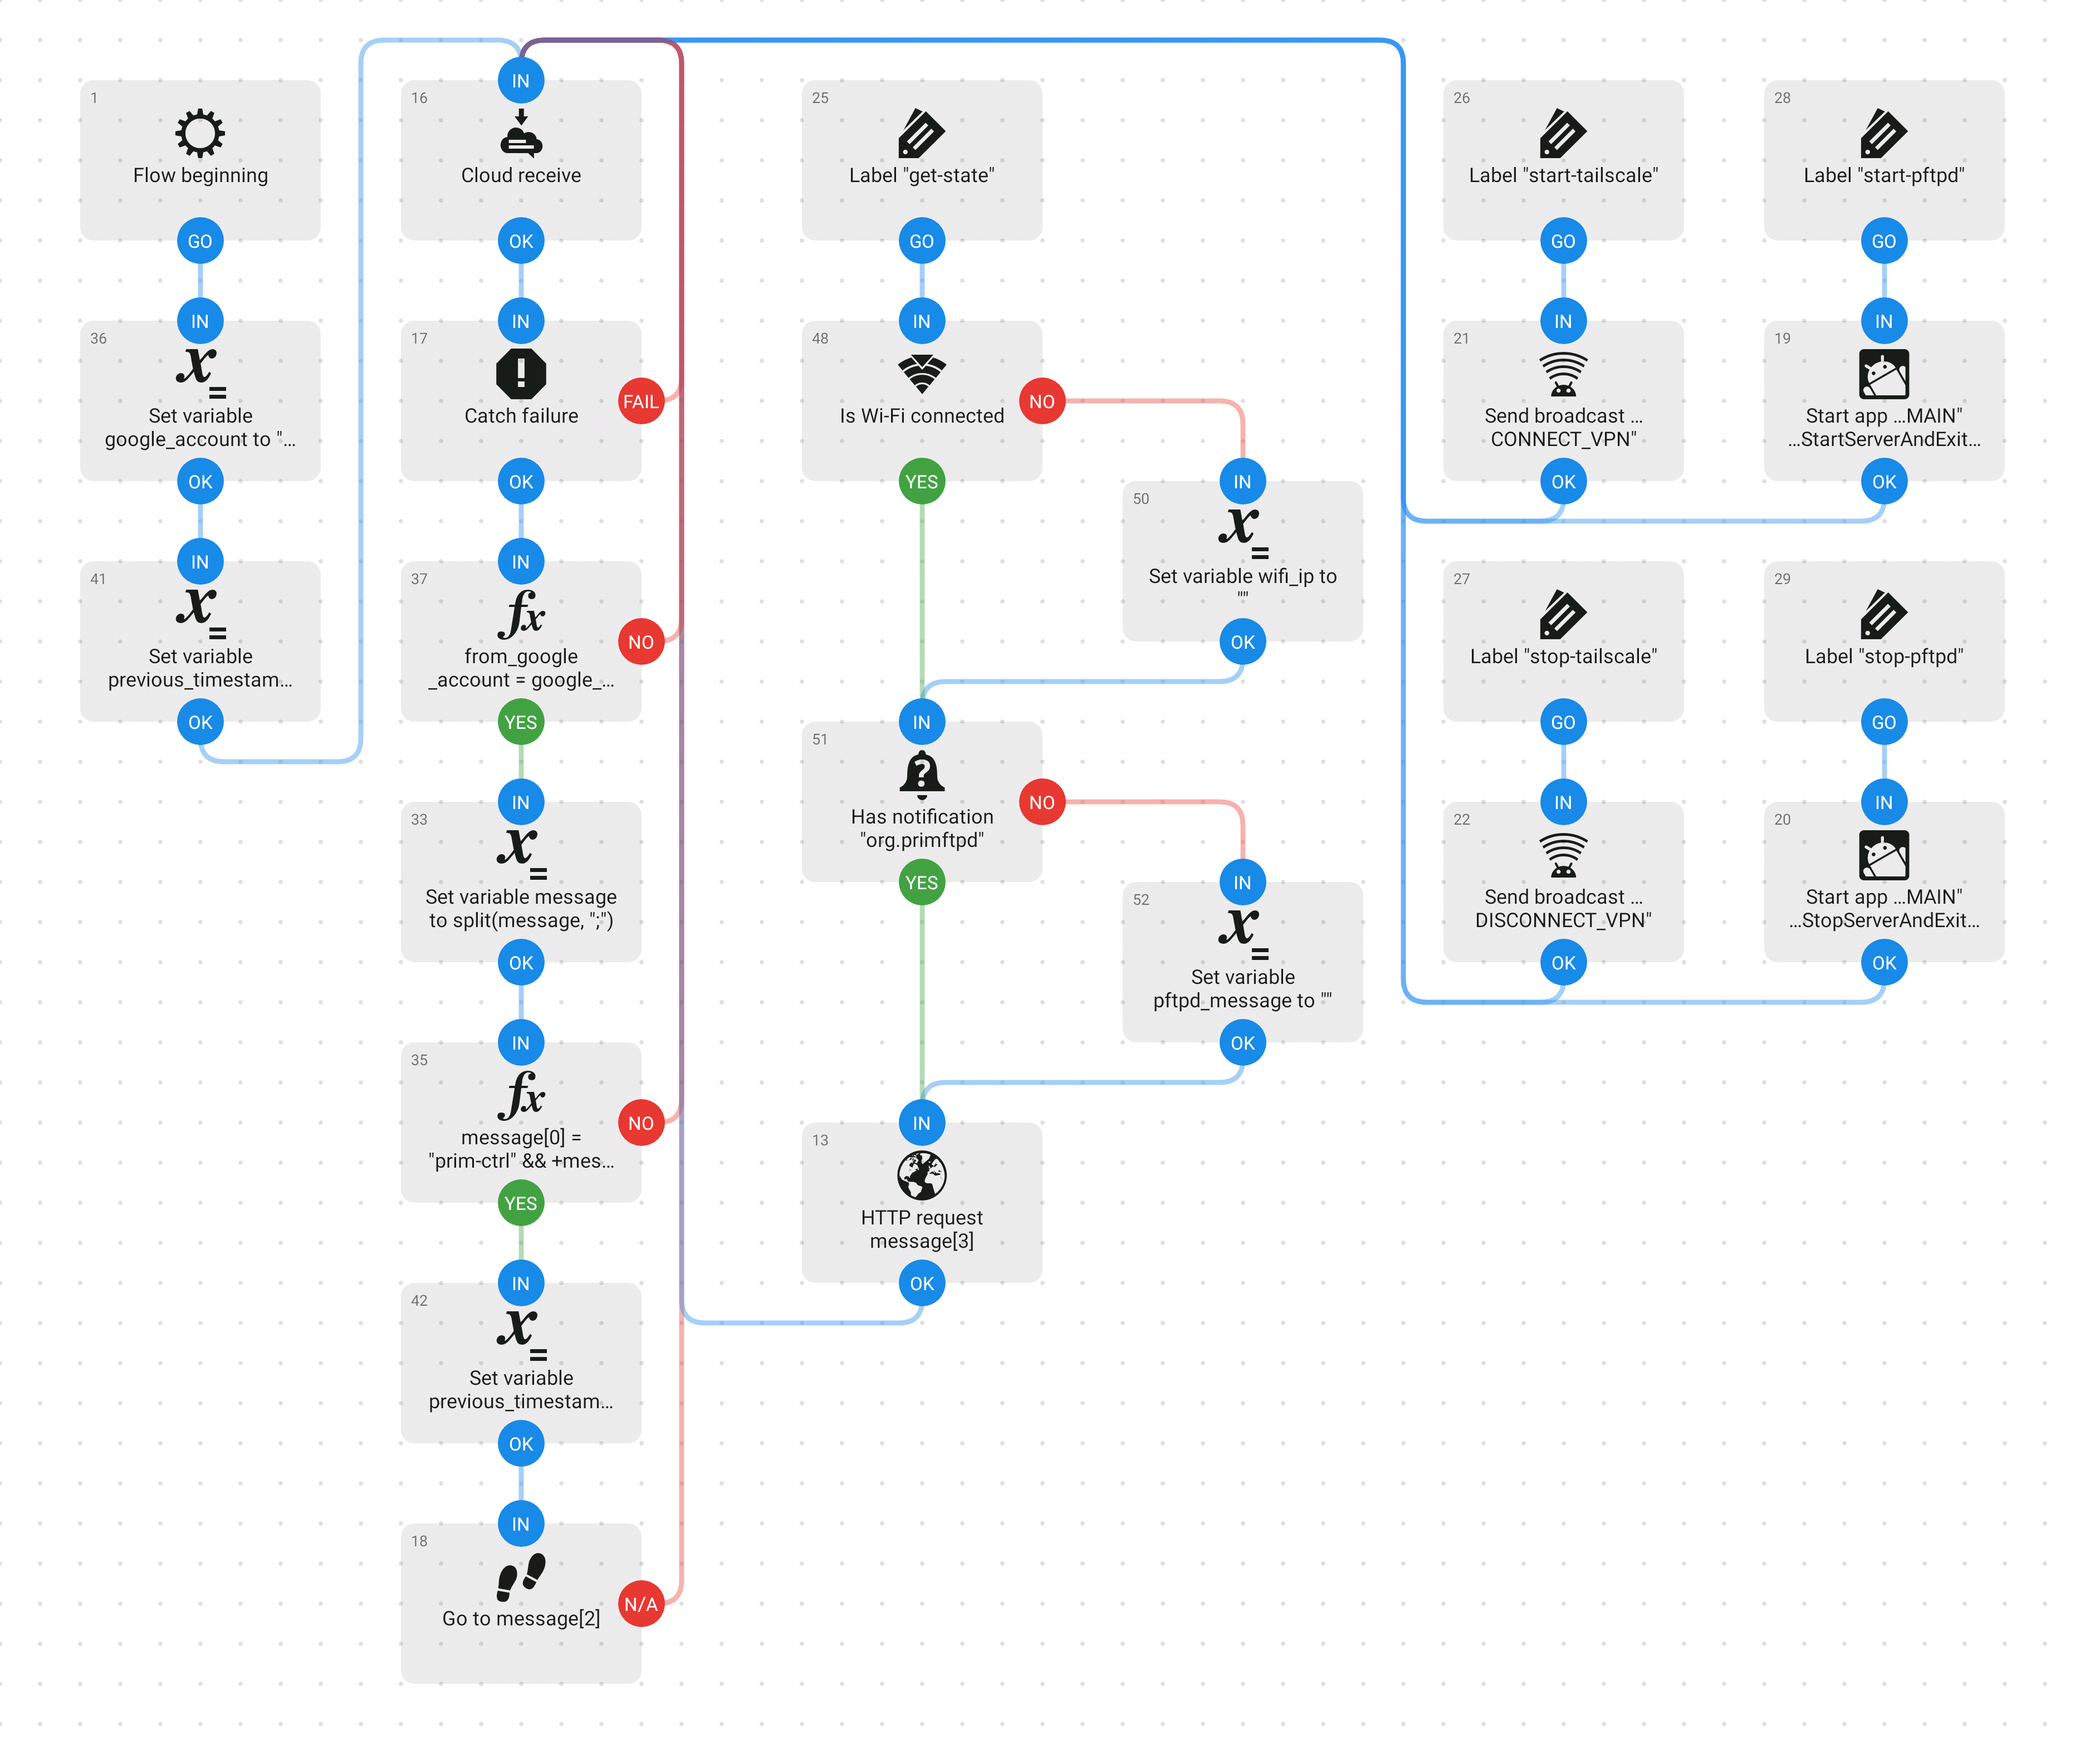
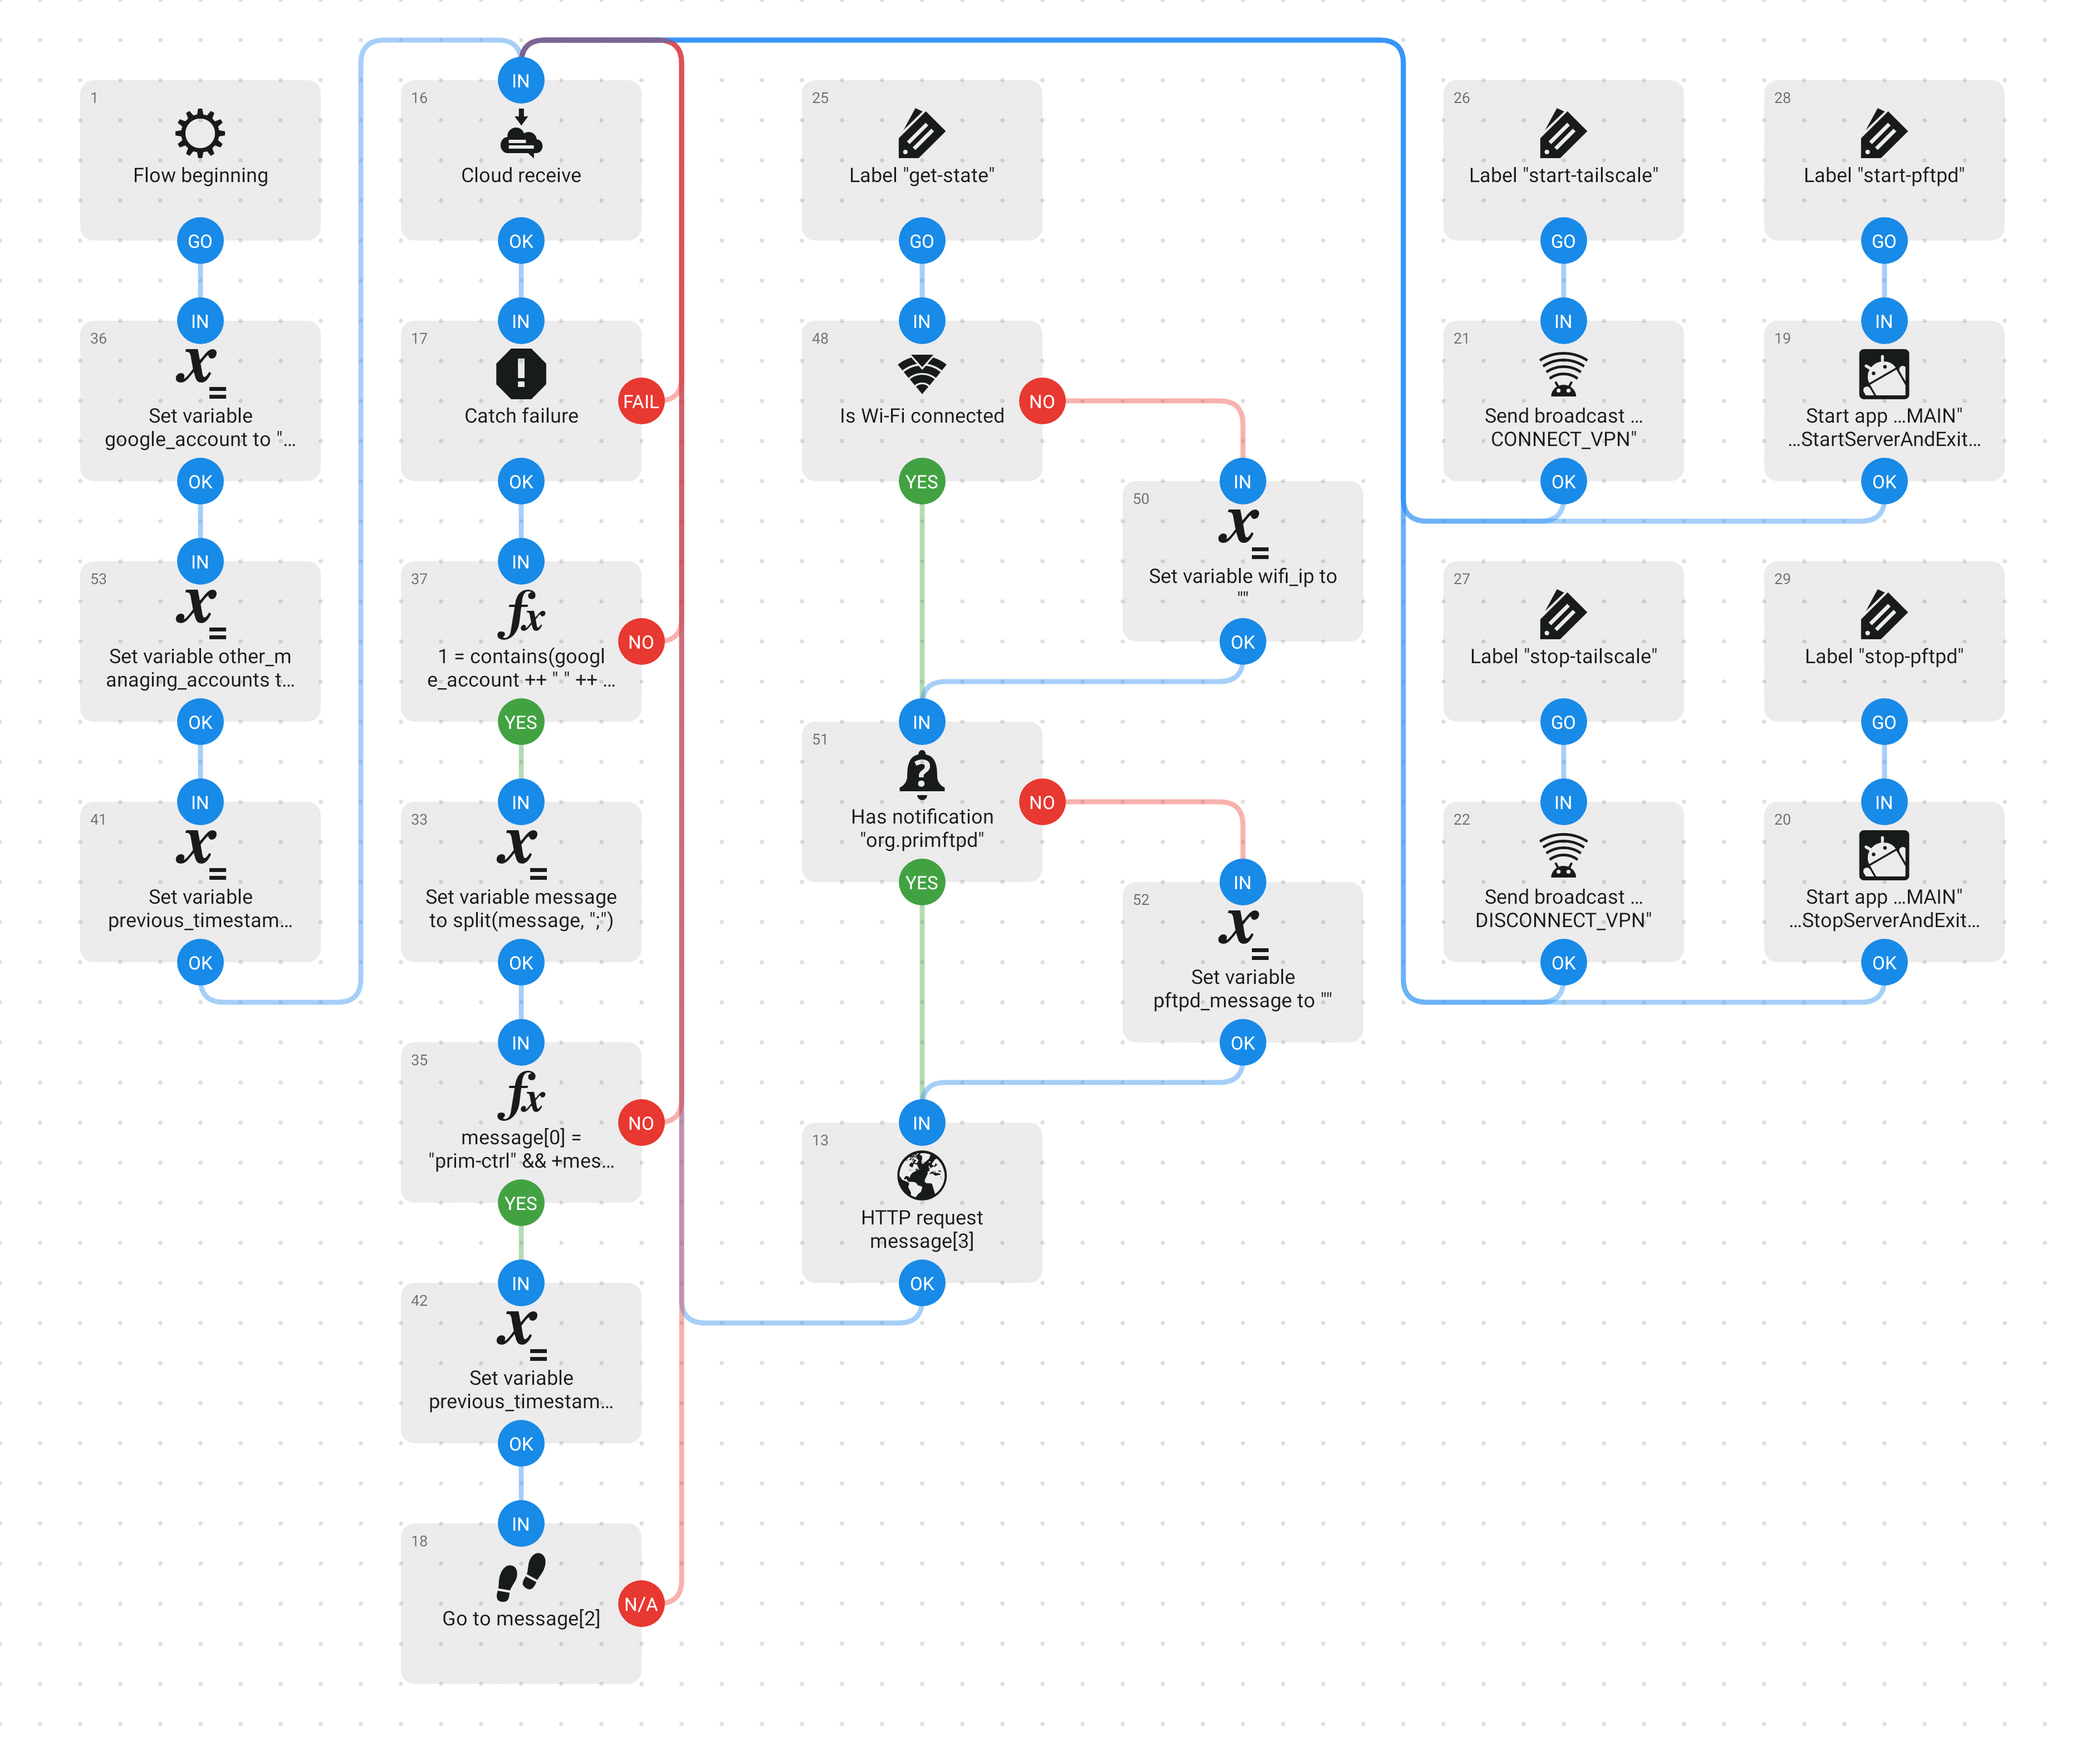
Extend flow with different managing accounts than the phone's account

Changed region(s): [[0.0625, 0.3438, 0.1562, 0.5625], [0.2188, 0.3438, 0.2812, 0.4062], [0.125, 0.5625, 0.1562, 0.5938]]

diff --git a/prim_ctrl/__main__.py b/prim_ctrl/__main__.py
@@ -1112,10 +1112,12 @@ class AutomateControl(Control):
                 "Output: even when -b option is not used, the script will output 'connected=(local|remote)', what you can use to determine whether to use -a option for the prim-sync script",
             formatter_class=WideHelpFormatter)
 
-        parser.add_argument('automate_account', metavar='automate-account', help="your Google account email you set up in the Automate flow's first Set variable block's Value field")
+        parser.add_argument('automate_account', metavar='automate-account', help="your Google account email you set up in the Automate flow's 2nd block's (Set variable google_account to...) Value field")
         parser.add_argument('automate_device', metavar='automate-device', help="the device name you can see at the Automate flow's Cloud receive block's This device field")
         parser.add_argument('automate_tokenfile', metavar='automate-tokenfile', help="filename containing Automates's Secret that located under your .secrets folder\n"
-            "(generated on https://llamalab.com/automate/cloud, use the same Google account you set up on the Cloud receive block)")
+            "(generated on https://llamalab.com/automate/cloud, use the same Google account you set the automate_account option to)\n"
+            "Note: if the account you use to send messages is different from the automate_account option,\n"
+            "set it up in the Automate flow's 3rd block's (Set variable other_managing_accounts to...) Value field")
 
         Control.setup_parser_arguments(parser)
 

diff --git a/README.md b/README.md
@@ -82,7 +82,8 @@ Optionally, if you want to edit or even contribute to the source, you also need 
 - Download the https://raw.githubusercontent.com/lmagyar/prim-ctrl/main/res/prim-ctrl.flo Automate flow to your phone (see [image](https://raw.githubusercontent.com/lmagyar/prim-ctrl/main/res/prim-ctrl.png) of the flow)
 - Import it with the ... menu / Import command
 - Enable all privileges
-- Click on the flow, edit the 2. block ("Set variable google_account to...), enter your Google account and press Save
+- Click on the flow, edit the 2nd block (Set variable google_account to...), enter your Google account's email and press Save
+  - Optionally, if the Google account your phone is registered to is different from the Google account you use to send messages to Automate (eg. you manage a phone that is a jukebox or a family member's phone and you use your personal account to send messages), edit the 3rd block (Set variable other_managing_accounts to...), enter one or more Google account's email (separated with space or comma) and press Save
 - Start the flow
 - Settings
   - Safety
@@ -152,10 +153,12 @@ Note: optionally if your laptop is accessible through Tailscale Funnel then VPN 
 Output: even when -b option is not used, the script will output 'connected=(local|remote)', what you can use to determine whether to use -a option for the prim-sync script
 
 positional arguments:
-  automate-account                 your Google account email you set up in the Automate flow's first Set variable block's Value field
+  automate-account                 your Google account email you set up in the Automate flow's 2nd block's (Set variable google_account to...) Value field
   automate-device                  the device name you can see at the Automate flow's Cloud receive block's This device field
   automate-tokenfile               filename containing Automates's Secret that located under your .secrets folder
-                                   (generated on https://llamalab.com/automate/cloud, use the same Google account you set up on the Cloud receive block)
+                                   (generated on https://llamalab.com/automate/cloud, use the same Google account you set the automate_account option to)
+                                   Note: if the account you use to send messages is different from the automate_account option,
+                                   set it up in the Automate flow's 3rd block's (Set variable other_managing_accounts to...) Value field
   server-name                      the Servername configuration option from Primitive FTPd app
   keyfile                          private SSH key filename located under your .ssh folder, see the documentation of prim-sync for more details
 

diff --git a/CHANGELOG.md b/CHANGELOG.md
@@ -1,5 +1,9 @@
 # Changelog
 
+## vNext
+
+- Extend flow with different managing accounts than the phone's account
+
 ## 0.7.1
 
 - Fix disconnect error during stopping pftpd
